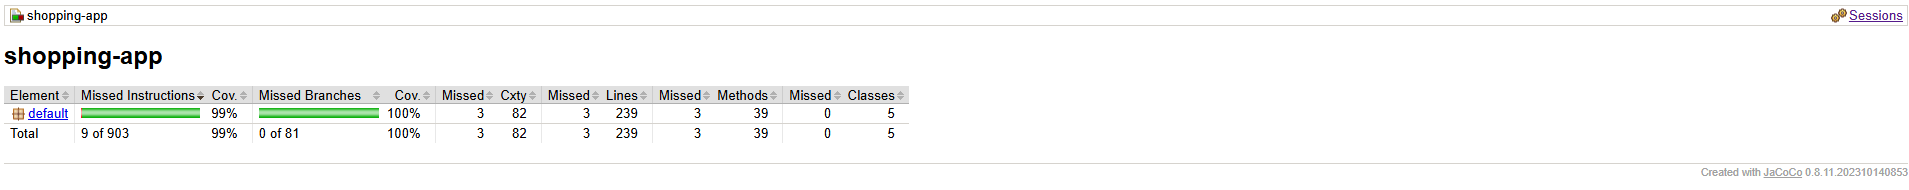
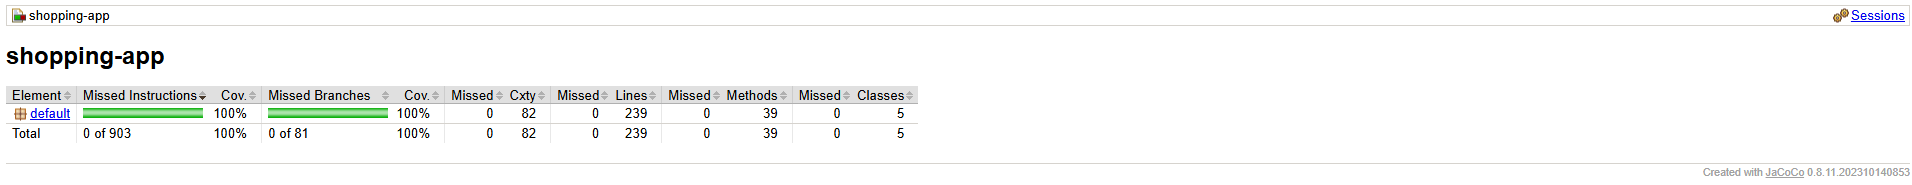
Add constructor tests for 100% coverage; update screenshots

diff --git a/src/test/java/ShippingCalculatorTest.java b/src/test/java/ShippingCalculatorTest.java
@@ -4,6 +4,11 @@ import static org.junit.jupiter.api.Assertions.*;
 class ShippingCalculatorTest {
 
     @Test
+    void constructor_coversDefaultConstructor() {
+        assertNotNull(new ShippingCalculator());
+    }
+
+    @Test
     void standard_subtotalBelowThreshold_costs10() {
         assertEquals(10.00, ShippingCalculator.calculateShipping(ShippingCalculator.STANDARD, 30.00));
     }

diff --git a/src/test/java/ShoppingAppTest.java b/src/test/java/ShoppingAppTest.java
@@ -6,6 +6,11 @@ import static org.junit.jupiter.api.Assertions.*;
 class ShoppingAppTest {
 
     private final PrintStream originalOut = System.out;
+
+    @Test
+    void constructor_coversDefaultConstructor() {
+        assertNotNull(new ShoppingApp());
+    }
     private final InputStream originalIn = System.in;
     private ByteArrayOutputStream outContent;
 

diff --git a/src/test/java/TaxCalculatorTest.java b/src/test/java/TaxCalculatorTest.java
@@ -4,6 +4,11 @@ import static org.junit.jupiter.api.Assertions.*;
 class TaxCalculatorTest {
 
     @Test
+    void constructor_coversDefaultConstructor() {
+        assertNotNull(new TaxCalculator());
+    }
+
+    @Test
     void calculateTax_IL_sixPercent() {
         assertEquals(6.00, TaxCalculator.calculateTax("IL", 100.00), 0.001);
     }